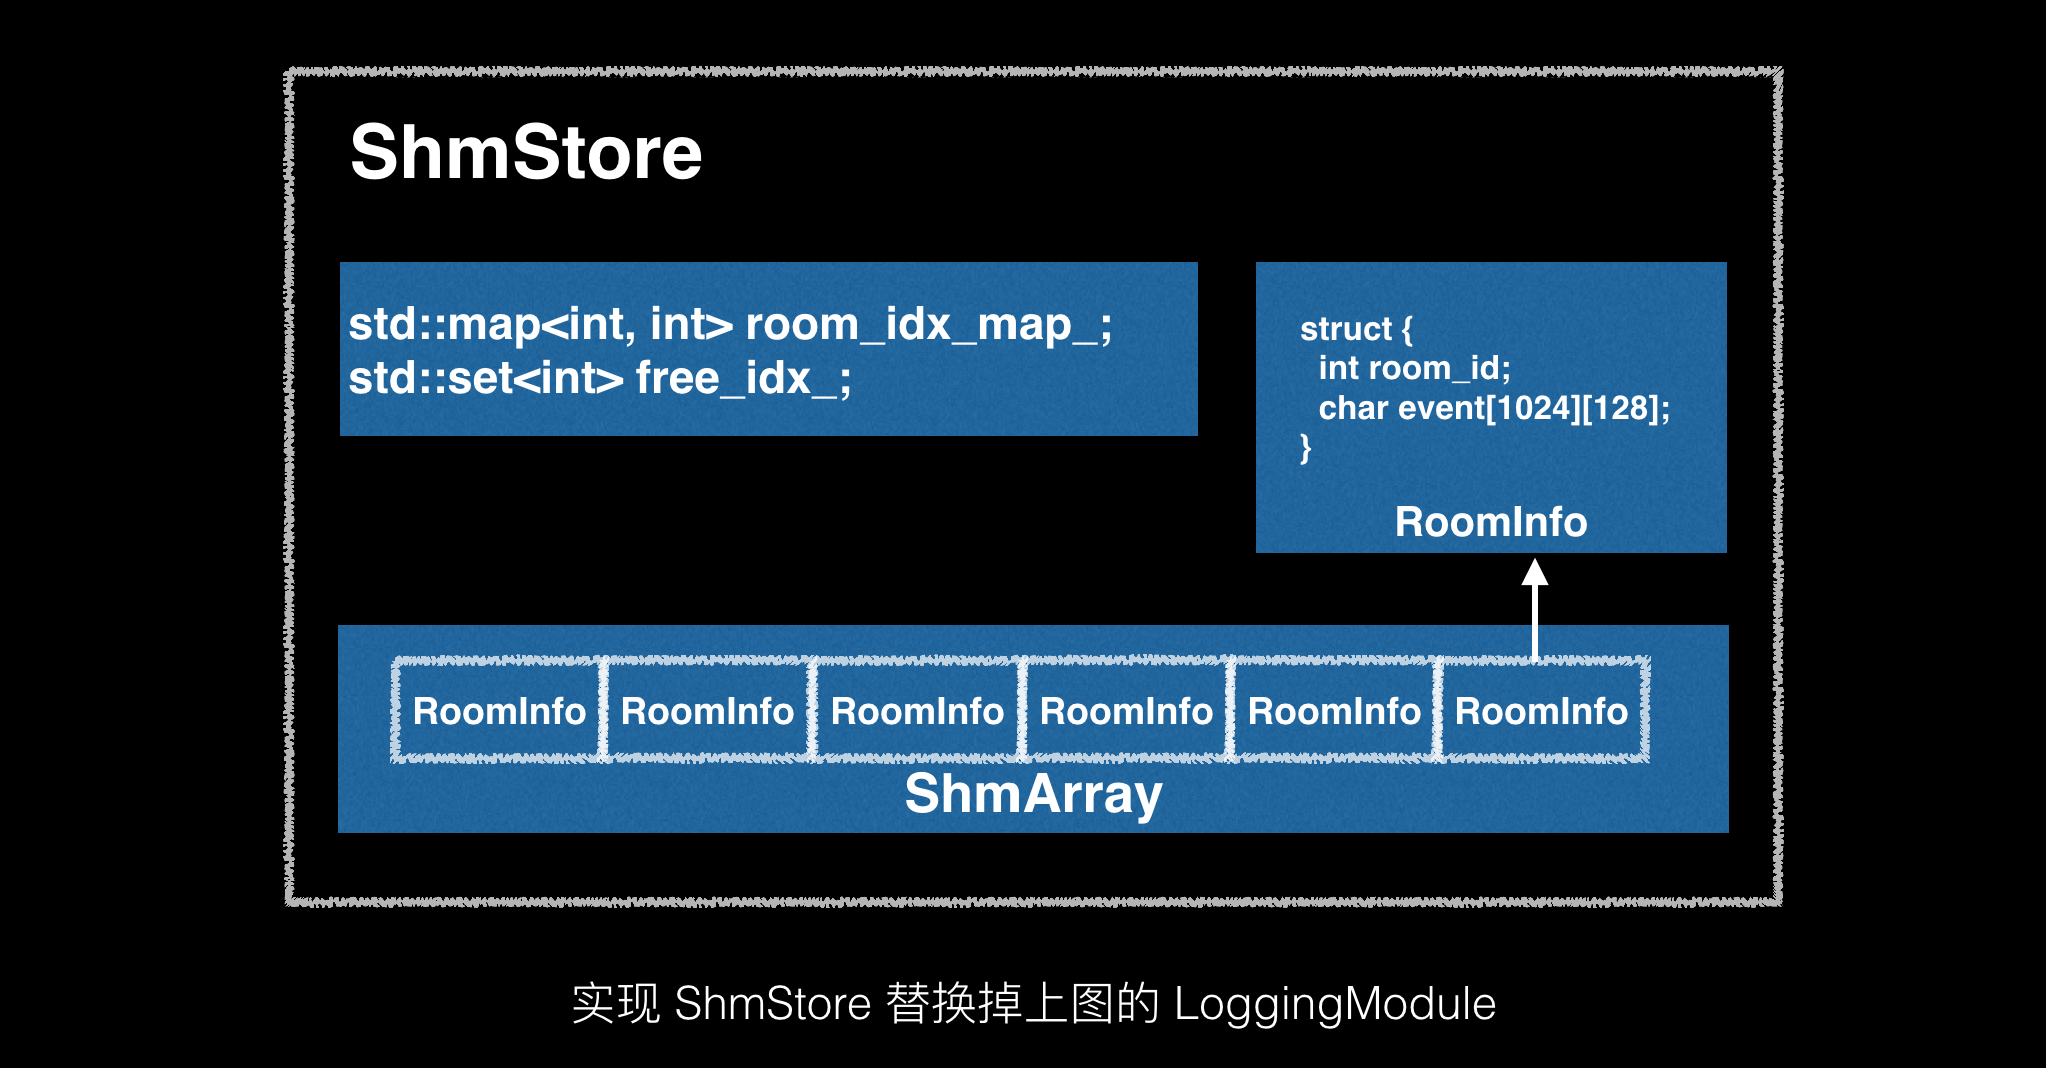
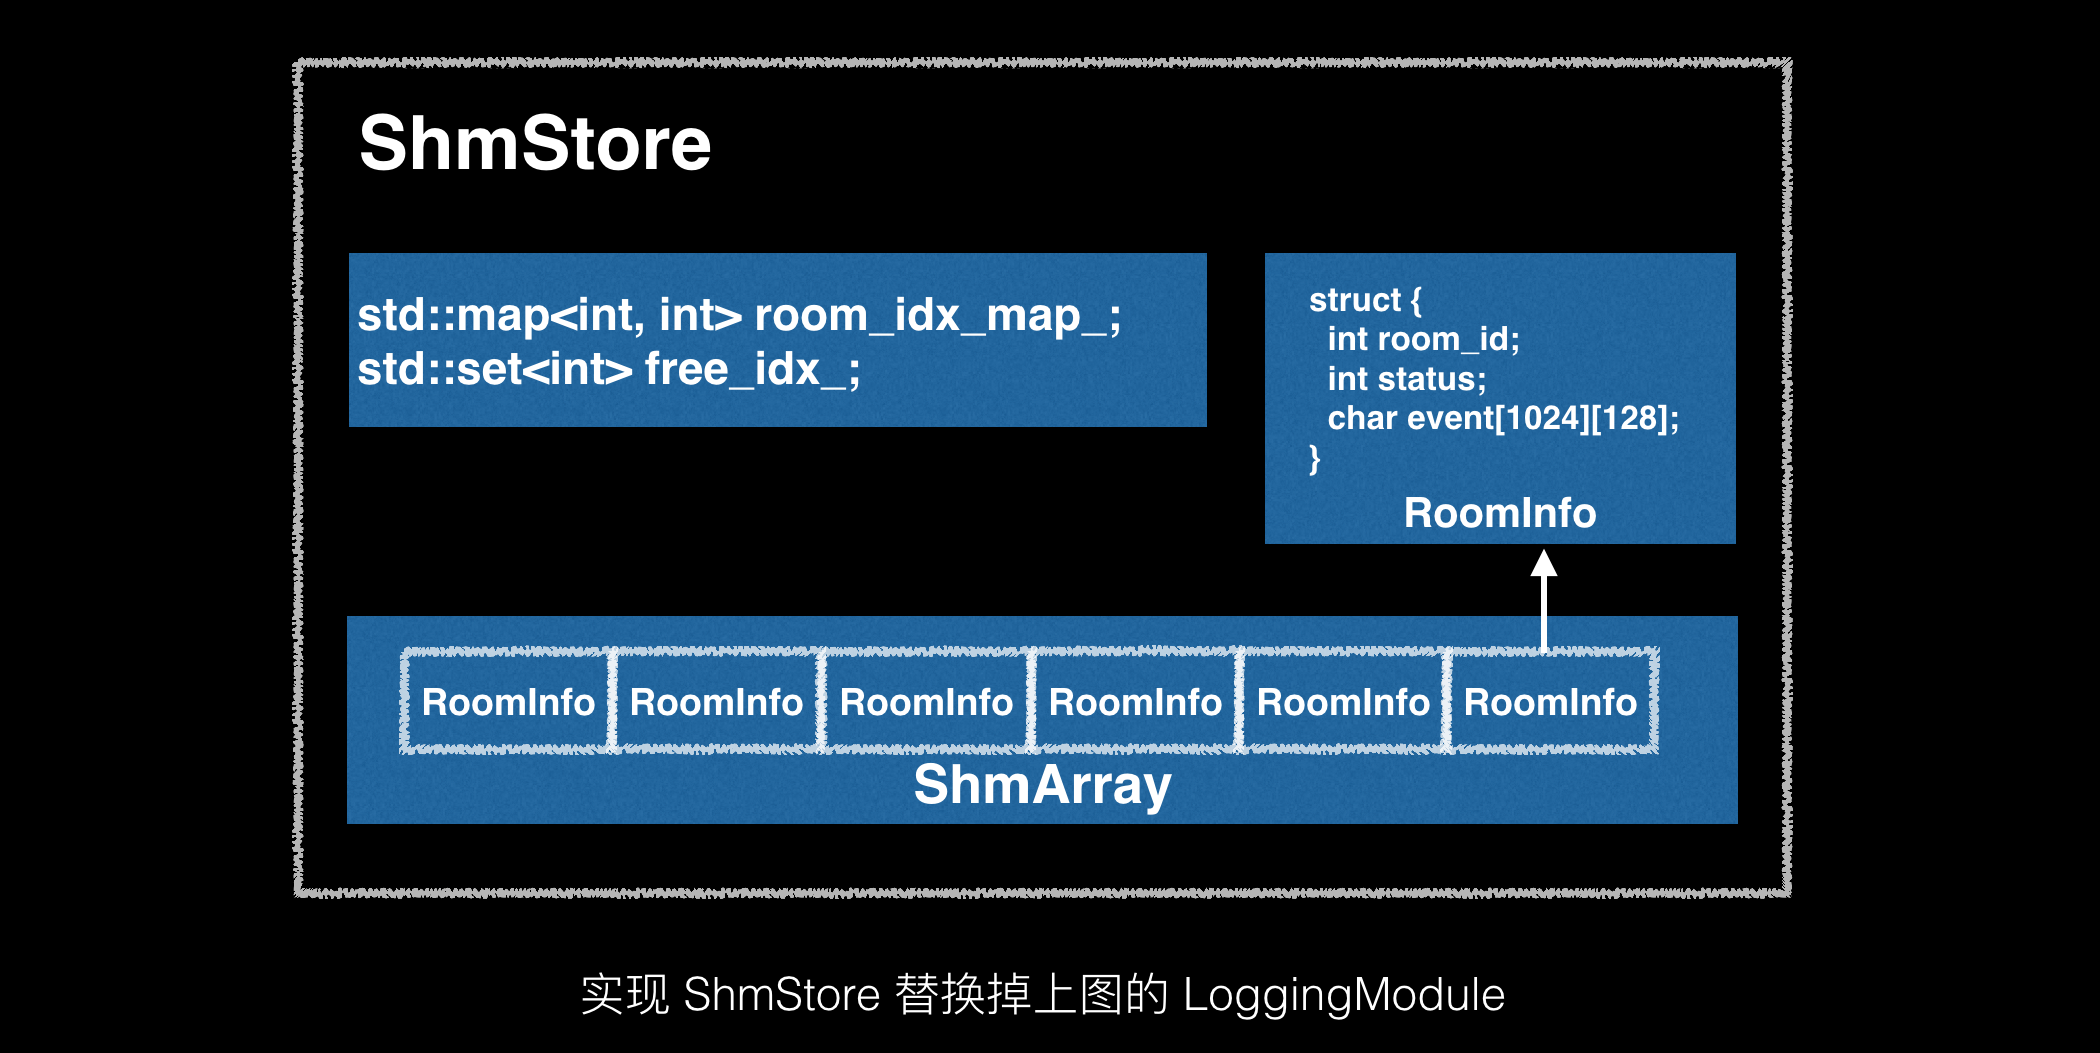
update post

Changed region(s): [[0.1232, 0.0304, 0.893, 0.8509], [0.2771, 0.9117, 0.739, 0.9725], [0.1232, 0.3647, 0.154, 0.3951]]

diff --git a/_site/2018/01/game-recover-based-on-replicated-state-machine/index.html b/_site/2018/01/game-recover-based-on-replicated-state-machine/index.html
@@ -164,7 +164,9 @@
 
 <p><img src="/assets/images/game-recover-based-on-replicated-state-machine/illustration-3.png" width="800"/></p>
 
-<p>实现 ShmStore 来管理共享内存的存储，替换掉上图的 Logging Module。<code>ShmArr</code> 为映射到共享内存的 <code>RoomInfo</code>数组，<code>RoomInfo</code> 是 C struct 结构，记录了房间id 和房间的所有 event。  <code>room_idx_map_</code> 维护着房间 id 到 <code>ShmArr</code> 下标的关系，<code>free_idx_</code> 保存着 <code>ShmArr</code> 中空闲的下标。当创建新房间时，从 <code>free_idx_</code> 中取一个空闲下标，并把房间 id 到该下标的映射关系保存于 <code>room_idx_map_</code> 中，之后该房间的所有 event 就保存在对应的 <code>RoomInfo</code> 结构里。当房间销毁时，将对应的 <code>RoomInfo</code> 结构清空，同时从<code>room_idx_map_</code>删除对应的映射关系，并把该 <code>RoomInfo</code> 的下标添加回 <code>free_idx_</code>。</p>
+<p>实现 ShmStore 来管理共享内存的存储，替换掉上图的 Logging Module。<code>ShmArr</code> 为映射到共享内存的 <code>RoomInfo</code>数组，<code>RoomInfo</code> 是 C struct 结构，记录了房间id、房间的状态（是否有效）和房间的所有 event。  <code>room_idx_map_</code> 维护着房间 id 到 <code>ShmArr</code> 下标的关系，<code>free_idx_</code> 保存着 <code>ShmArr</code> 中空闲的下标。当创建新房间时，从 <code>free_idx_</code> 中取一个空闲下标，并把房间 id 到该下标的映射关系保存于 <code>room_idx_map_</code> 中，将 <code>RoomInfo</code> 的 status 置为有效。之后该房间的所有 event 就保存在对应的 <code>RoomInfo</code> 结构里。当房间销毁时，将对应的 <code>RoomInfo</code> 结构清空，同时从<code>room_idx_map_</code>删除对应的映射关系，并把该 <code>RoomInfo</code> 的下标添加回 <code>free_idx_</code>。</p>
+
+<p>当读取共享内存重建房间状态时，只加载 status 为有效的 <code>RoomInfo</code> 结构。</p>
 
 <h2>Conclusion</h2>
 

diff --git a/_posts/2018-01-13-game-recover-based-on-replicated-state-machine.md b/_posts/2018-01-13-game-recover-based-on-replicated-state-machine.md
@@ -39,7 +39,9 @@ category: 工作
 
 <img src="/assets/images/game-recover-based-on-replicated-state-machine/illustration-3.png" width="800"/>
 
-实现 ShmStore 来管理共享内存的存储，替换掉上图的 Logging Module。```ShmArr``` 为映射到共享内存的 ```RoomInfo```数组，```RoomInfo``` 是 C struct 结构，记录了房间id 和房间的所有 event。  ```room_idx_map_``` 维护着房间 id 到 ```ShmArr``` 下标的关系，```free_idx_``` 保存着 ```ShmArr``` 中空闲的下标。当创建新房间时，从 ```free_idx_``` 中取一个空闲下标，并把房间 id 到该下标的映射关系保存于 ```room_idx_map_``` 中，之后该房间的所有 event 就保存在对应的 ```RoomInfo``` 结构里。当房间销毁时，将对应的 ```RoomInfo``` 结构清空，同时从```room_idx_map_```删除对应的映射关系，并把该 ```RoomInfo``` 的下标添加回 ```free_idx_```。
+实现 ShmStore 来管理共享内存的存储，替换掉上图的 Logging Module。```ShmArr``` 为映射到共享内存的 ```RoomInfo```数组，```RoomInfo``` 是 C struct 结构，记录了房间id、房间的状态（是否有效）和房间的所有 event。  ```room_idx_map_``` 维护着房间 id 到 ```ShmArr``` 下标的关系，```free_idx_``` 保存着 ```ShmArr``` 中空闲的下标。当创建新房间时，从 ```free_idx_``` 中取一个空闲下标，并把房间 id 到该下标的映射关系保存于 ```room_idx_map_``` 中，将 ```RoomInfo``` 的 status 置为有效。之后该房间的所有 event 就保存在对应的 ```RoomInfo``` 结构里。当房间销毁时，将对应的 ```RoomInfo``` 结构清空，同时从```room_idx_map_```删除对应的映射关系，并把该 ```RoomInfo``` 的下标添加回 ```free_idx_```。
+
+当读取共享内存重建房间状态时，只加载 status 为有效的 ```RoomInfo``` 结构。
 
 ## Conclusion
 
